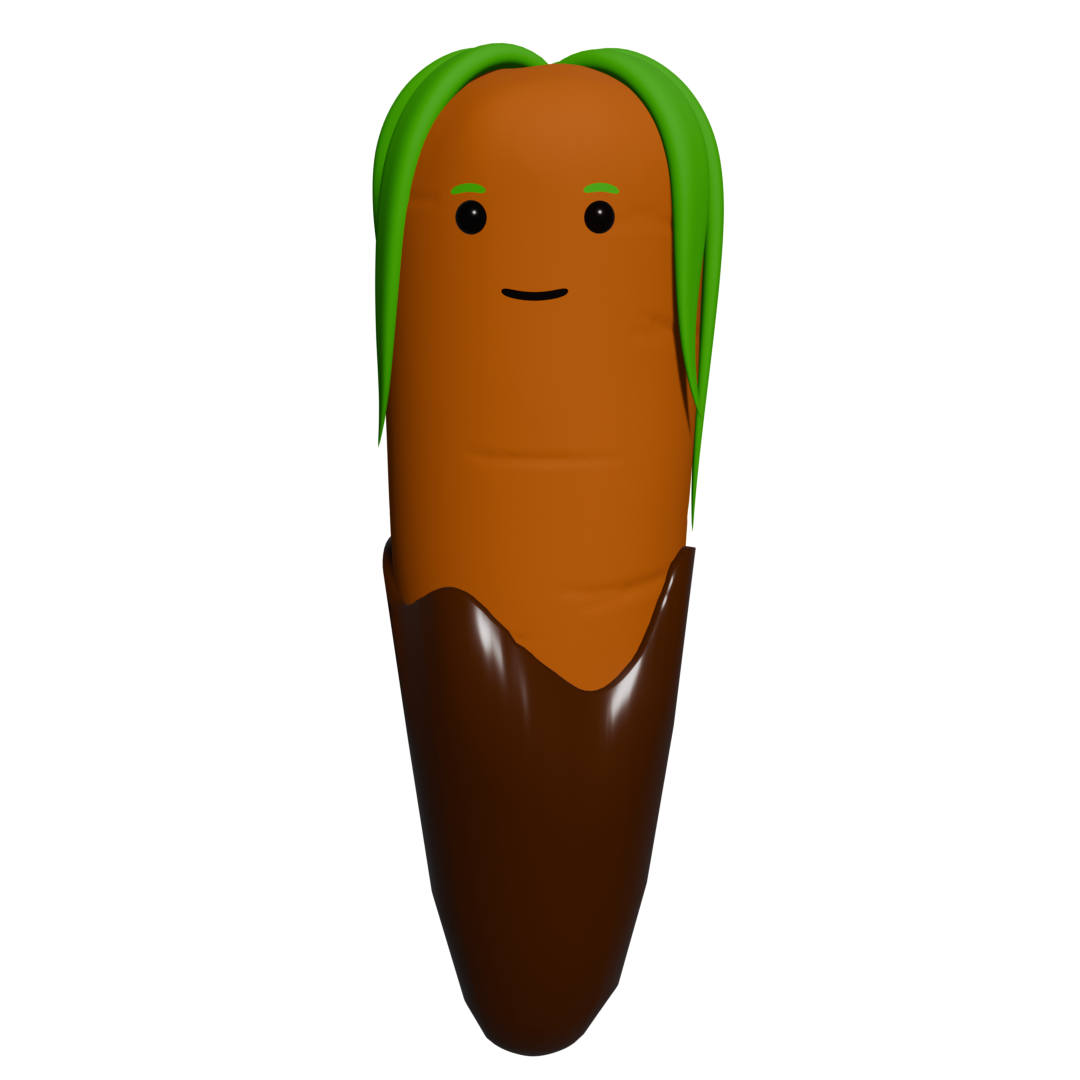
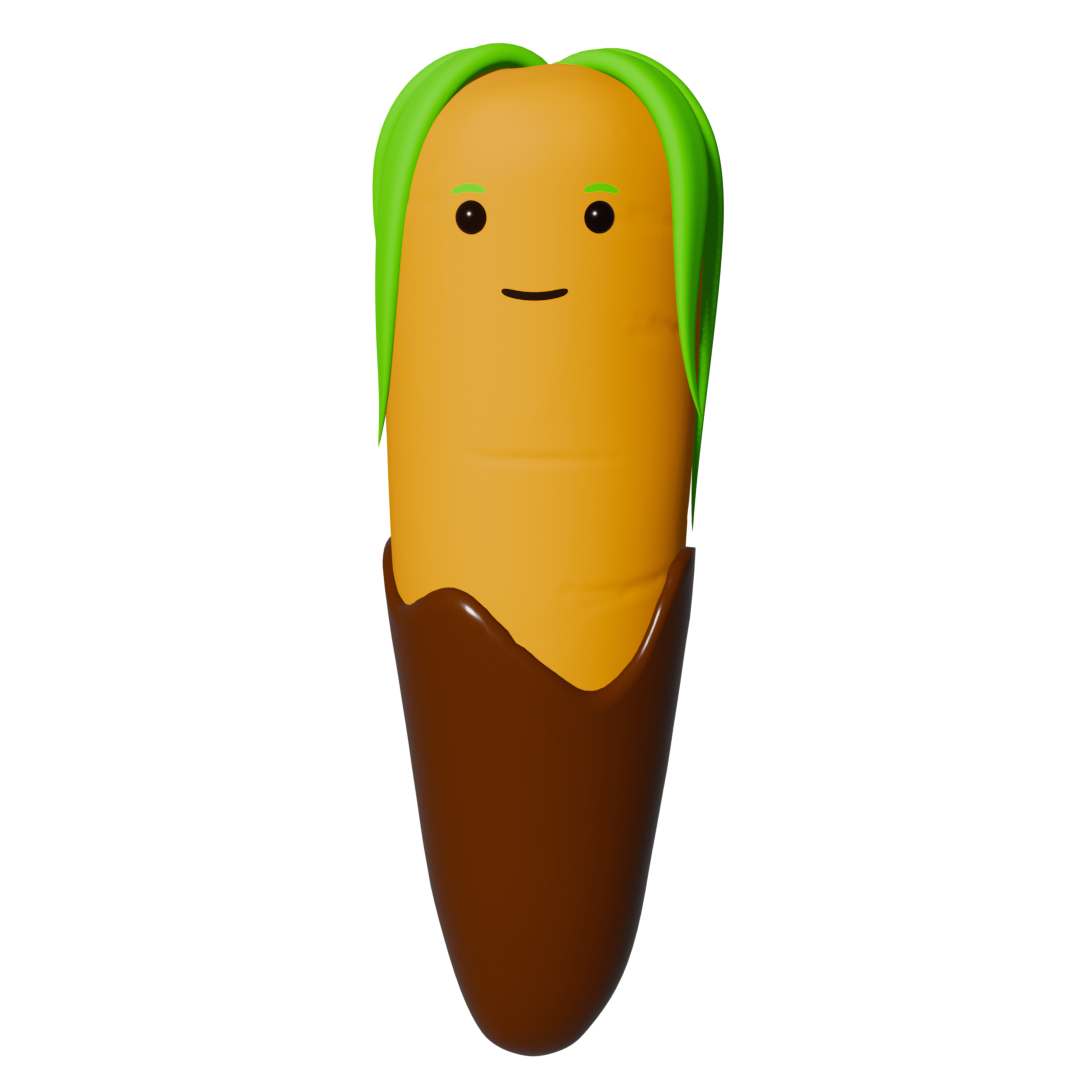
About us filled in

Changed region(s): [[0.3361, 0.0306, 0.6722, 0.9778], [0.5806, 0.825, 0.6111, 0.8861]]

diff --git a/index.html b/index.html
@@ -170,10 +170,11 @@
           <h1><span class="header-text">About Us</span></h1>
           <div class="about-text">
             <p>
-              Lorem ipsum, dolor sit amet consectetur adipisicing elit. Iure
-              exercitationem eaque quae natus, ipsum nemo? Delectus unde sit
-              velit accusamus molestias aspernatur repudiandae, quam ex corrupti
-              suscipit dolore officiis. Beatae.
+              We are Team Gulsparv, a group of students majoring in Information and Communications Engineering at KTH.
+               As plant enthusiasts, we understand the challenges many face in gardening, from choosing the right plants to ensuring they grow healthily.
+                This inspired us to create a solution that bridges the gap between technology and gardening, making it accessible and enjoyable for everyone.
+                 Our team is united by a shared passion for technology, driving us to innovate and create tools that enhance the gardening experience.
+                 Each member of our team brings a unique skill set, from coding and design to research and development, all contributing to the success of SproutView.
             </p>
           </div>
         </div>

diff --git a/script.js b/script.js
@@ -46,7 +46,7 @@ const teamMembers = [
     name: "Emil",
     role: "Developer",
     imageUrl:
-      "https://cdn.discordapp.com/attachments/1230115905745457274/1239541623541600266/food-cartoon-illustration_23-2150756605.jpg?ex=66434c98&is=6641fb18&hm=3a78e1e15d08c4d36e0b7949523f62e62855e3dd01613e185ee3bfbf745eea50&",
+      "https://png.pngtree.com/png-clipart/20230914/original/pngtree-cute-lime-character-vector-illustration-illustration-id-png-image_11087484.png",
   },
   {
     name: "Isac",
